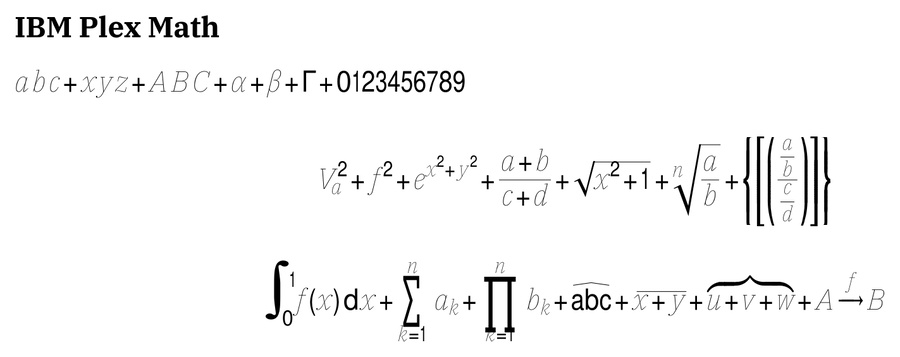
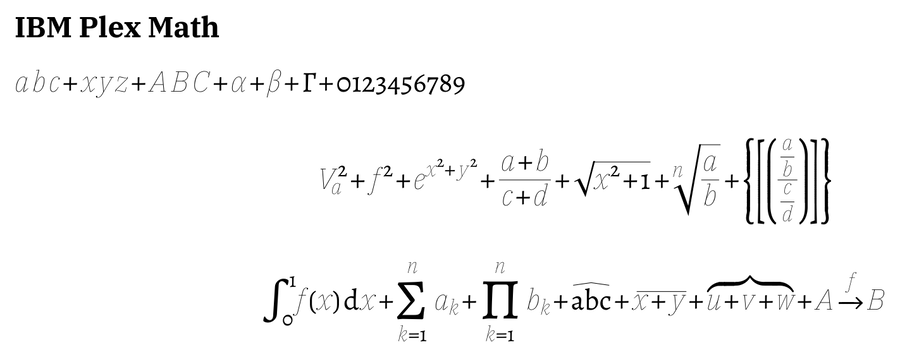
Look for a font in its sfnt form before its Type 1 form
XCharter came out as currency signs: 'a' as a pound sign, 'A' as 'a', '1'
as 'Q'. tt_font_find_sub tried .pfb before .otf and .ttf, so for the many
families a TeX distribution ships in both forms TeXmacs opened the Type 1
file, whose builtin encoding is the one the TeX world uses:
XCharter-Roman.pfb maps code 0x61 to sterling.

That had two consequences. On screen, because tt_face_rep selects the
builtin encoding with ft_select_charmap (face, ft_encoding_adobe_custom),
which succeeds for Type 1 and fails for OpenType. And in exported PDF,
because tt_font_glyphs_rep::get stores the character code in glyph::index
when the selected charmap is not Unicode, while the PDF writer takes that
field for a glyph index.

The order is now .otf, .ttf, .ttc, .pfb, .dfont. Measured on this machine:
1404 font names exist in both forms, all inside TeX Live, and 220 of their
Type 1 files put the letters elsewhere; 21 of those are families of the
shipped database, among them XCharter, ETbb, fbb and AlgolRevived, and they
are now right. For the rest the two files hold the same outlines, so
nothing moves on the page, but the sfnt file brings its Unicode cmap, which
means fewer fallbacks, and the PDF gets real glyph indices. Fonts that
exist only as .pfb, the 275 shipped with TeXmacs among them, are
unaffected. A cold-cache render of the overview sample took 58 seconds
against 73 before, since .pfb lookups go through kpathsea while sfnt
lookups walk the font path.
[…]

diff --git a/src/src/Plugins/Freetype/tt_file.cpp b/src/src/Plugins/Freetype/tt_file.cpp
@@ -161,16 +161,19 @@ tt_font_find_sub (string name) {
   //cout << "tt_font_find " << name << "\n";
   url u= tt_unpack (name);
   if (!is_none (u)) return u;
-  u= tt_locate (name * ".pfb");
-  //if (!is_none (u)) cout << name << " -> " << u << "\n";
+  // The sfnt formats come first, and Type 1 last. A TeX distribution ships
+  // many families in both forms, and the Type 1 file carries the encoding
+  // of the TeX world: in XCharter-Roman.pfb the code of 'a' is the pound
+  // sign and the code of 'A' is 'a'. TeXmacs asks for characters by Unicode
+  // and needs the cmap of the sfnt file. The same choice gives the PDF
+  // writer real glyph indices instead of character codes.
+  u= tt_locate (name * ".otf");
   if (!is_none (u)) return u;
   u= tt_locate (name * ".ttf");
-  //if (!is_none (u)) cout << name << " -> " << u << "\n";
-  //else cout << name << " -> ???\n";
   if (!is_none (u)) return u;
   u= tt_locate (name * ".ttc");
   if (!is_none (u)) return u;
-  u= tt_locate (name * ".otf");
+  u= tt_locate (name * ".pfb");
   if (!is_none (u)) return u;
   u= tt_locate (name * ".dfont");
   return u;

diff --git a/src/doc/opentype-math-design.md b/src/doc/opentype-math-design.md
@@ -668,6 +668,32 @@ prints, the `get_unicode_range` experiment) were dropped.
   instead of at every lookup. What is left of the log of a full sample is
   two lines.
 
+- **Type 1 before OpenType (22 September 2026).** XCharter came out as
+  currency signs: `a` as a pound sign, `A` as `a`, `1` as `Q`.
+  `tt_font_find_sub` tried `.pfb` before the sfnt formats, so for the
+  many families a TeX distribution ships in both forms TeXmacs opened the
+  Type 1 file, whose builtin encoding is the one the TeX world uses, and
+  `XCharter-Roman.pfb` maps code 0x61 to `sterling`. Two consequences: the
+  wrong glyphs on screen, since `tt_face_rep` selects that builtin encoding
+  with `ft_select_charmap (face, ft_encoding_adobe_custom)`, which succeeds
+  for Type 1 and fails for OpenType; and wrong glyphs in exported PDF, since
+  `tt_font_glyphs_rep::get` stores the character code in `glyph::index` when
+  the selected charmap is not Unicode, and the PDF writer takes that field
+  for a glyph index.
+
+  The order is now `.otf`, `.ttf`, `.ttc`, `.pfb`, `.dfont`. On this machine
+  1404 font names exist in both forms, all of them inside TeX Live, and 220
+  of their Type 1 files put the letters elsewhere; 21 of those are families
+  of the shipped database, among them XCharter, ETbb, fbb and AlgolRevived.
+  For the others the two files hold the same outlines, so nothing moves, but
+  the sfnt file brings its Unicode cmap, which means fewer fallbacks, and
+  correct glyph indices in the PDF. Fonts that exist only as `.pfb`, the
+  275 shipped with TeXmacs among them, are unaffected. A cold-cache render
+  of the overview sample took 58 seconds against 73 before, because the
+  `.pfb` lookups go through kpathsea while the sfnt lookups walk the font
+  path. An existing `font_cache.scm` keeps pointing at the old files, so it
+  has to be cleared once, from Tools.
+
 ## 5. Tests
 
 ### Unit tests

diff --git a/src/doc/font-system-review.md b/src/doc/font-system-review.md
@@ -148,7 +148,11 @@ FreeType is loaded dynamically (`free_type.cpp`) or linked; only a small set
 of entry points is used: new memory face, select charmap, set char size, get
 char index, load glyph, render glyph, get kerning.
 
-- `tt_file.cpp`: locates font files. `tt_font_path ()` concatenates
+- `tt_file.cpp`: locates font files. `tt_font_find_sub` tries the sfnt
+  formats first, `.otf`, `.ttf` and `.ttc`, then Type 1 `.pfb` and
+  `.dfont`; a TeX distribution ships many families in both forms and the
+  Type 1 file carries a TeX encoding rather than a Unicode cmap.
+  `tt_font_path ()` concatenates
   `$TEXMACS_FONT_PATH`, the "imported fonts" preference,
   `$TEXMACS_HOME_PATH/fonts/truetype`, `$TEXMACS_PATH/fonts/truetype`, and
   platform system directories. On macOS `texlive_font_dirs` scans
